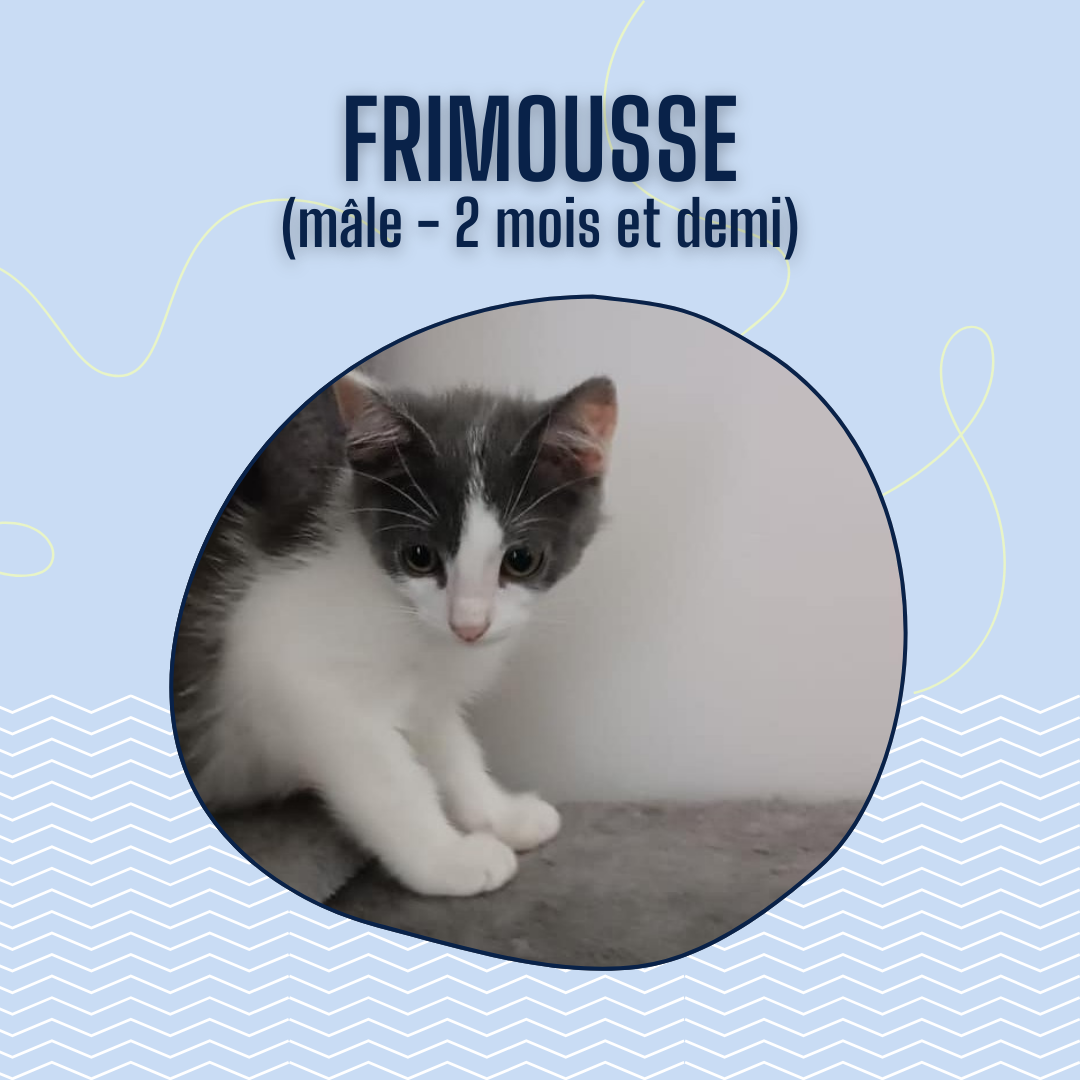
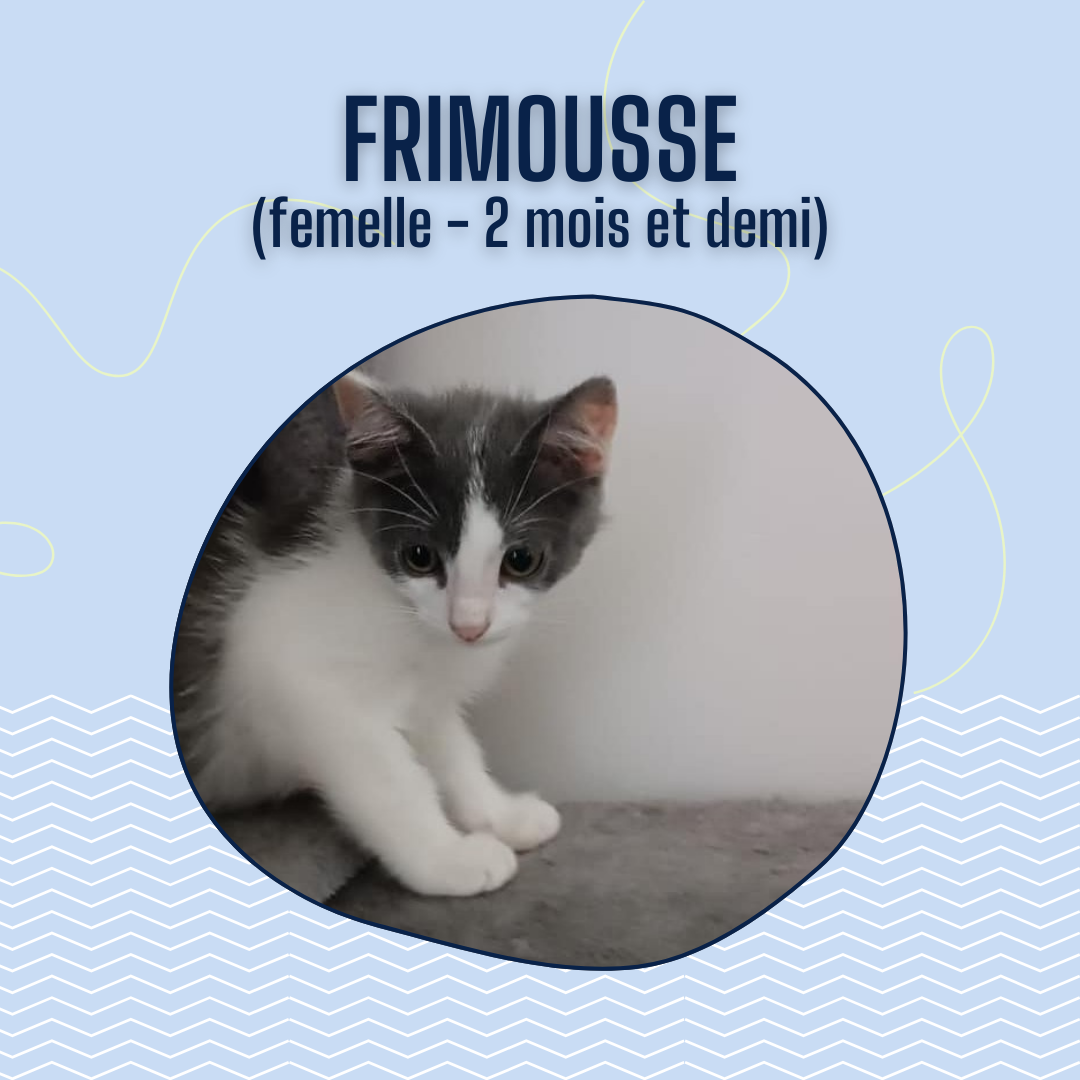
[UPDATE] - 30-06-2024

Changed region(s): [[0.2139, 0.1833, 0.7639, 0.2444]]

diff --git a/sauvetage.html b/sauvetage.html
@@ -160,7 +160,12 @@
     >
       <div>
         <a href="#up"
-          ><img src="images/backup_arrow.png" style="width: 70px"
+          ><img
+            src="images/backup_arrow.png"
+            title="Revenir en haut de la page"
+            style="width: 70px"
+            onmouseover="this.src='images/backup_arrow_hover.png';"
+            onmouseout="this.src='images/backup_arrow.png';"
         /></a>
       </div>
     </section>
@@ -192,9 +197,7 @@
             <a class="sauvetage_nav-link" href="#ange"> Ange </a>
           </li>
           <li class="sauvetage_nav-item">
-            <a class="sauvetage_nav-link" href="#aslan">
-              Aslan
-            </a>
+            <a class="sauvetage_nav-link" href="#aslan"> Aslan </a>
           </li>
           <li class="sauvetage_nav-item">
             <a class="sauvetage_nav-link" href="#bahari">
@@ -207,14 +210,10 @@
             </a>
           </li>
           <li class="sauvetage_nav-item">
-            <a class="sauvetage_nav-link" href="#bia">
-              Bia et ses petits
-            </a>
+            <a class="sauvetage_nav-link" href="#bia"> Bia et ses petits </a>
           </li>
           <li class="sauvetage_nav-item">
-            <a class="sauvetage_nav-link" href="#bridget">
-              Bridget
-            </a>
+            <a class="sauvetage_nav-link" href="#bridget"> Bridget </a>
           </li>
           <li class="sauvetage_nav-item">
             <a class="sauvetage_nav-link" href="#brocap">
@@ -227,19 +226,13 @@
             </a>
           </li>
           <li class="sauvetage_nav-item">
-            <a class="sauvetage_nav-link" href="#chance">
-              Chance
-            </a>
+            <a class="sauvetage_nav-link" href="#chance"> Chance </a>
           </li>
           <li class="sauvetage_nav-item">
-            <a class="sauvetage_nav-link" href="#coquillette">
-              Coquillette
-            </a>
+            <a class="sauvetage_nav-link" href="#coquillette"> Coquillette </a>
           </li>
           <li class="sauvetage_nav-item">
-            <a class="sauvetage_nav-link" href="#coriandre">
-              Coriandre
-            </a>
+            <a class="sauvetage_nav-link" href="#coriandre"> Coriandre </a>
           </li>
           <li class="sauvetage_nav-item">
             <a class="sauvetage_nav-link" href="#cosette">
@@ -247,19 +240,13 @@
             </a>
           </li>
           <li class="sauvetage_nav-item">
-            <a class="sauvetage_nav-link" href="#crocmou">
-              Crocmou
-            </a>
+            <a class="sauvetage_nav-link" href="#crocmou"> Crocmou </a>
           </li>
           <li class="sauvetage_nav-item">
-            <a class="sauvetage_nav-link" href="#daisy">
-              Daisy
-            </a>
+            <a class="sauvetage_nav-link" href="#daisy"> Daisy </a>
           </li>
           <li class="sauvetage_nav-item">
-            <a class="sauvetage_nav-link" href="#jeanne">
-              Jeanne
-            </a>
+            <a class="sauvetage_nav-link" href="#jeanne"> Jeanne </a>
           </li>
           <li class="sauvetage_nav-item">
             <a class="sauvetage_nav-link" href="#coralie">
@@ -272,34 +259,22 @@
             </a>
           </li>
           <li class="sauvetage_nav-item">
-            <a class="sauvetage_nav-link" href="#mimine">
-              Mimine
-            </a>
+            <a class="sauvetage_nav-link" href="#mimine"> Mimine </a>
           </li>
           <li class="sauvetage_nav-item">
-            <a class="sauvetage_nav-link" href="#minus">
-              Minus
-            </a>
+            <a class="sauvetage_nav-link" href="#minus"> Minus </a>
           </li>
           <li class="sauvetage_nav-item">
-            <a class="sauvetage_nav-link" href="#misemi">
-              Missy et Eminem
-            </a>
+            <a class="sauvetage_nav-link" href="#misemi"> Missy et Eminem </a>
           </li>
           <li class="sauvetage_nav-item">
-            <a class="sauvetage_nav-link" href="#mousse">
-              Mousse
-            </a>
+            <a class="sauvetage_nav-link" href="#mousse"> Mousse </a>
           </li>
           <li class="sauvetage_nav-item">
-            <a class="sauvetage_nav-link" href="#myosotis">
-              Myosotis
-            </a>
+            <a class="sauvetage_nav-link" href="#myosotis"> Myosotis </a>
           </li>
           <li class="sauvetage_nav-item">
-            <a class="sauvetage_nav-link" href="#nantin">
-              Nano et Tiny
-            </a>
+            <a class="sauvetage_nav-link" href="#nantin"> Nano et Tiny </a>
           </li>
           <li class="sauvetage_nav-item">
             <a class="sauvetage_nav-link" href="#papach">
@@ -307,19 +282,13 @@
             </a>
           </li>
           <li class="sauvetage_nav-item">
-            <a class="sauvetage_nav-link" href="#orage">
-              Orage
-            </a>
+            <a class="sauvetage_nav-link" href="#orage"> Orage </a>
           </li>
           <li class="sauvetage_nav-item">
-            <a class="sauvetage_nav-link" href="#target">
-              Target
-            </a>
+            <a class="sauvetage_nav-link" href="#target"> Target </a>
           </li>
           <li class="sauvetage_nav-item">
-            <a class="sauvetage_nav-link" href="#tempete">
-              Tempête
-            </a>
+            <a class="sauvetage_nav-link" href="#tempete"> Tempête </a>
           </li>
           <li class="sauvetage_nav-item">
             <a class="sauvetage_nav-link" href="#verrim">
@@ -327,14 +296,10 @@
             </a>
           </li>
           <li class="sauvetage_nav-item">
-            <a class="sauvetage_nav-link" href="#volga">
-              Volga
-            </a>
+            <a class="sauvetage_nav-link" href="#volga"> Volga </a>
           </li>
           <li class="sauvetage_nav-item">
-            <a class="sauvetage_nav-link" href="#yingyang">
-              Ying et Yang
-            </a>
+            <a class="sauvetage_nav-link" href="#yingyang"> Ying et Yang </a>
           </li>
         </ul>
         <script>

diff --git a/fiches-adoption/a-celeste-diane-tiki-frimousse-jazz.html b/fiches-adoption/a-celeste-diane-tiki-frimousse-jazz.html
@@ -234,9 +234,9 @@
                 </div>
                 <h5 class="detail-box-title">Frimousse et Jazz</h5>
                 <p class="detail-box-presentation">
-                  Mâles gris-blanc (2 mois et demi),
+                  Femelle et mâle gris-blanc (2 mois et demi),
                   <br />
-                  Frères de Céleste, Diane et Tiki (réservées)
+                  Frère et soeur de Céleste, Diane et Tiki (réservées)
                 </p>
               </div>
             </div>
@@ -245,8 +245,8 @@
             <div class="box-explanation">
               <div class="detail-box">
                 <p class="detail-box-presentation-particulier">
-                  Aujourd’hui nous vous présentons Frimousse et Jazz, les frères
-                  de Céleste, Diane et Tiki, déja réservées🫶🏻
+                  Aujourd’hui nous vous présentons Frimousse et Jazz, la soeur
+                  et le frère de Céleste, Diane et Tiki, déja réservées🫶🏻
                   <br />
                   Ce sont deux chatons très mignons, habitués à l’humain et aux
                   chats. 🐈⬛ Ils peuvent parfois se montrer timides mais au vu de
@@ -255,7 +255,7 @@
                   clair💙 Vous retrouverez également des photos de leurs soeurs
                   à côté !
                   <br />
-                  Ces deux compères sont adoptables sous contrat associatif
+                  Ces deux loustics sont adoptables sous contrat associatif
                   contre remboursement des frais vétérinaires. Ils partirons
                   identifiés, déparasités et primo vaccinés. La stérilisation
                   sera obligatoire et non négociable. 🙏🏻 <br />
@@ -268,12 +268,12 @@
             <div class="box-explanation">
               <div class="detail-box">
                 <p class="detail-box-presentation-particulier">
-                  🖋 Nom : Frimousse <br />
+                  🖋 Nom : Frimousse (femelle) <br />
                   📆 Age : 2 mois et demi <br />
-                  🐈⬛ Caractéristiques physiques : typés Européen, gris (foncé)
+                  🐈⬛ Caractéristiques physiques : typée Européen, gris (foncé)
                   et blanc
                   <br />
-                  🏥 Stérilisée / Castrés : non <br />
+                  🏥 Stérilisée : non <br />
                   💉 FIV - FELV : inconnu / inconnu <br />
                   <br />
                   🐈 Ententes chats : oui <br />
@@ -285,12 +285,12 @@
             <div class="box-explanation">
               <div class="detail-box">
                 <p class="detail-box-presentation-particulier">
-                  🖋 Nom : Jazz <br />
+                  🖋 Nom : Jazz (mâle) <br />
                   📆 Age : 2 mois et demi <br />
-                  🐈⬛ Caractéristiques physiques : typés Européen, gris (clair)
-                  et blanc
+                  🐈⬛ Caractéristiques physiques : typé Européen, gris (clair) et
+                  blanc
                   <br />
-                  🏥 Stérilisée / Castrés : non <br />
+                  🏥 Castré : non <br />
                   💉 FIV - FELV : inconnu / inconnu <br />
                   <br />
                   🐈 Ententes chats : oui <br />

diff --git a/adoption.html b/adoption.html
@@ -222,10 +222,14 @@
               </div>
             </div>
           </div>
-          <div class="img_container">
+          <div class="img_container" id="adoptItem2">
             <div class="carousel slide">
               <h3
-                style="color: #ffffff00; background-color: #ffffff00"
+                style="
+                  color: #ffffff00;
+                  background-color: #ffffff00;
+                  padding: 10px 40px;
+                "
                 id="tarifs"
               >
                 tarifs
@@ -237,7 +241,7 @@
               </div>
             </div>
           </div>
-          <div class="img_container">
+          <div class="img_container" id="adoptItem3">
             <div
               id="carouselExampleControls3"
               class="carousel slide"
@@ -320,6 +324,8 @@
             src="images/backup_arrow.png"
             title="Revenir en haut de la page"
             style="width: 70px"
+            onmouseover="this.src='images/backup_arrow_hover.png';"
+            onmouseout="this.src='images/backup_arrow.png';"
         /></a>
       </div>
     </section>
@@ -550,8 +556,8 @@
                   >Frimousse</a
                 >
                 <p class="detail-box-presentation">
-                  Mâle gris-blanc (2 mois et demi), <br />
-                  Frère de Jazz
+                  Femelle gris-blanc (2 mois et demi), <br />
+                  Soeur de Jazz
                 </p>
               </div>
               <a href="contact.html" class="detail-box-presentation-contact">

diff --git a/about.html b/about.html
@@ -164,6 +164,8 @@
             src="images/backup_arrow.png"
             title="Revenir en haut de la page"
             style="width: 70px"
+            onmouseover="this.src='images/backup_arrow_hover.png';"
+            onmouseout="this.src='images/backup_arrow.png';"
         /></a>
       </div>
     </section>
@@ -220,10 +222,7 @@
           </button>
           <a>Menu</a>
         </div>
-        <div
-          class="about_navbar-collapse"
-          id="about_navbarSupportedContent"
-        >
+        <div class="about_navbar-collapse" id="about_navbarSupportedContent">
           <div
             class="d-flex ml-auto flex-column flex-lg-row align-items-center"
           >

diff --git a/css/responsive.css b/css/responsive.css
@@ -127,6 +127,19 @@
     flex-direction: column;
     align-items: center;
   }
+
+  #adoptItem2 {
+    order: 3;
+  }
+
+  #adoptItem3 {
+    order: 2;
+  }
+
+  #tarifs {
+    padding: 0px;
+    margin: 0px;
+  }
 }
 
 @media (max-width: 1250px) {
@@ -246,6 +259,15 @@
   .adopt_title_section .box {
     padding: 0.5% 5%;
     margin-top: 0.5%;
+  }
+
+  .adopt_title_section .box h1 {
+    font-size: 270%;
+    margin-top: -2%;
+  }
+
+  .adopt_title_section .box a {
+    margin-top: 10px;
   }
 }
 

diff --git a/index.html b/index.html
@@ -364,7 +364,6 @@
                 </div>
               </div>
             </div>
-            
           </div>
         </div>
       </section>
@@ -375,7 +374,7 @@
     <section class="service_section layout_padding">
       <div class="container">
         <div class="heading_container">
-          <h2>Les dernières nouveautés</h2>
+          <h2>Suivez-nous sur les réseaux</h2>
         </div>
         <div
           class="fb-page"

diff --git a/adopter.html b/adopter.html
@@ -167,6 +167,8 @@
             src="images/backup_arrow.png"
             title="Revenir en haut de la page"
             style="width: 70px"
+            onmouseover="this.src='images/backup_arrow_hover.png';"
+            onmouseout="this.src='images/backup_arrow.png';"
         /></a>
       </div>
     </section>

diff --git a/help.html b/help.html
@@ -164,6 +164,8 @@
             src="images/backup_arrow.png"
             title="Revenir en haut de la page"
             style="width: 70px"
+            onmouseover="this.src='images/backup_arrow_hover.png';"
+            onmouseout="this.src='images/backup_arrow.png';"
         /></a>
       </div>
     </section>
